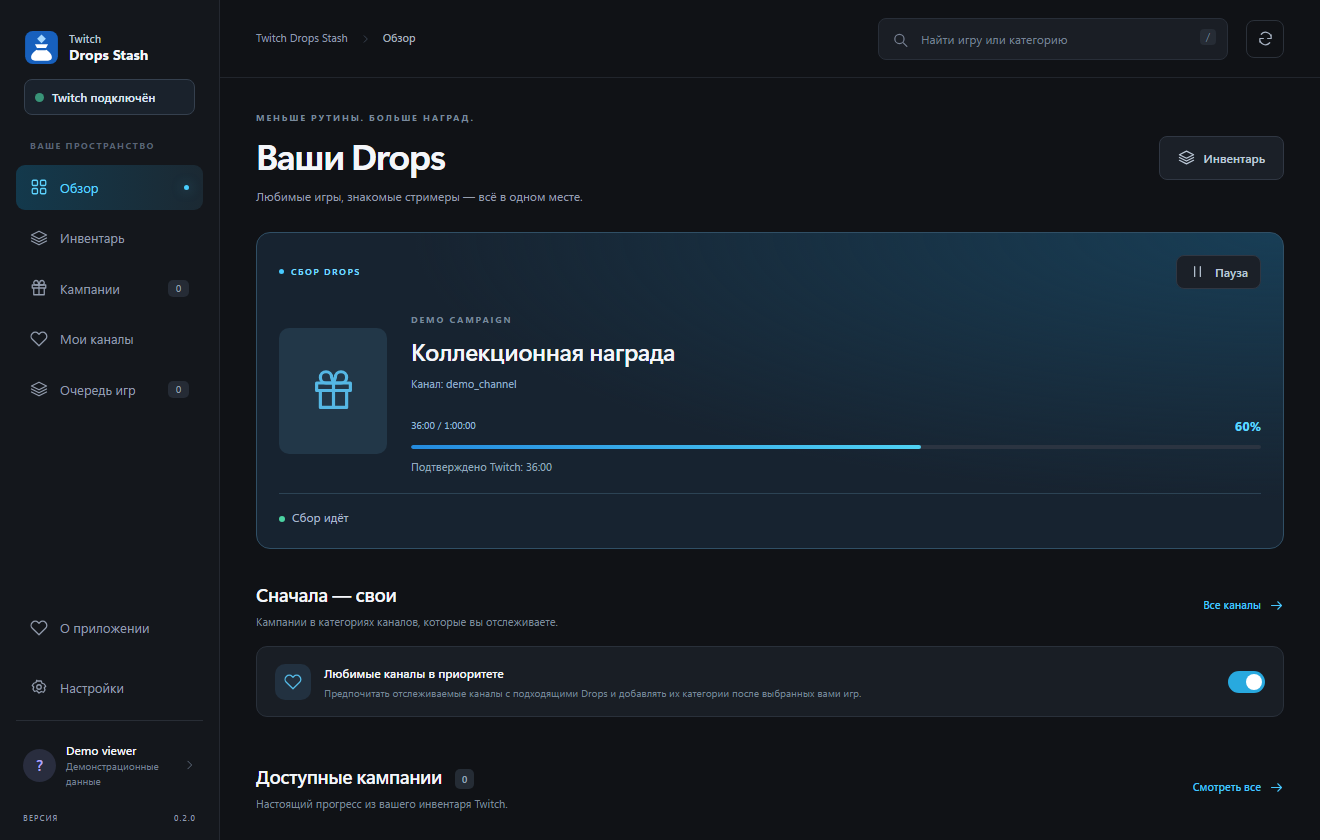
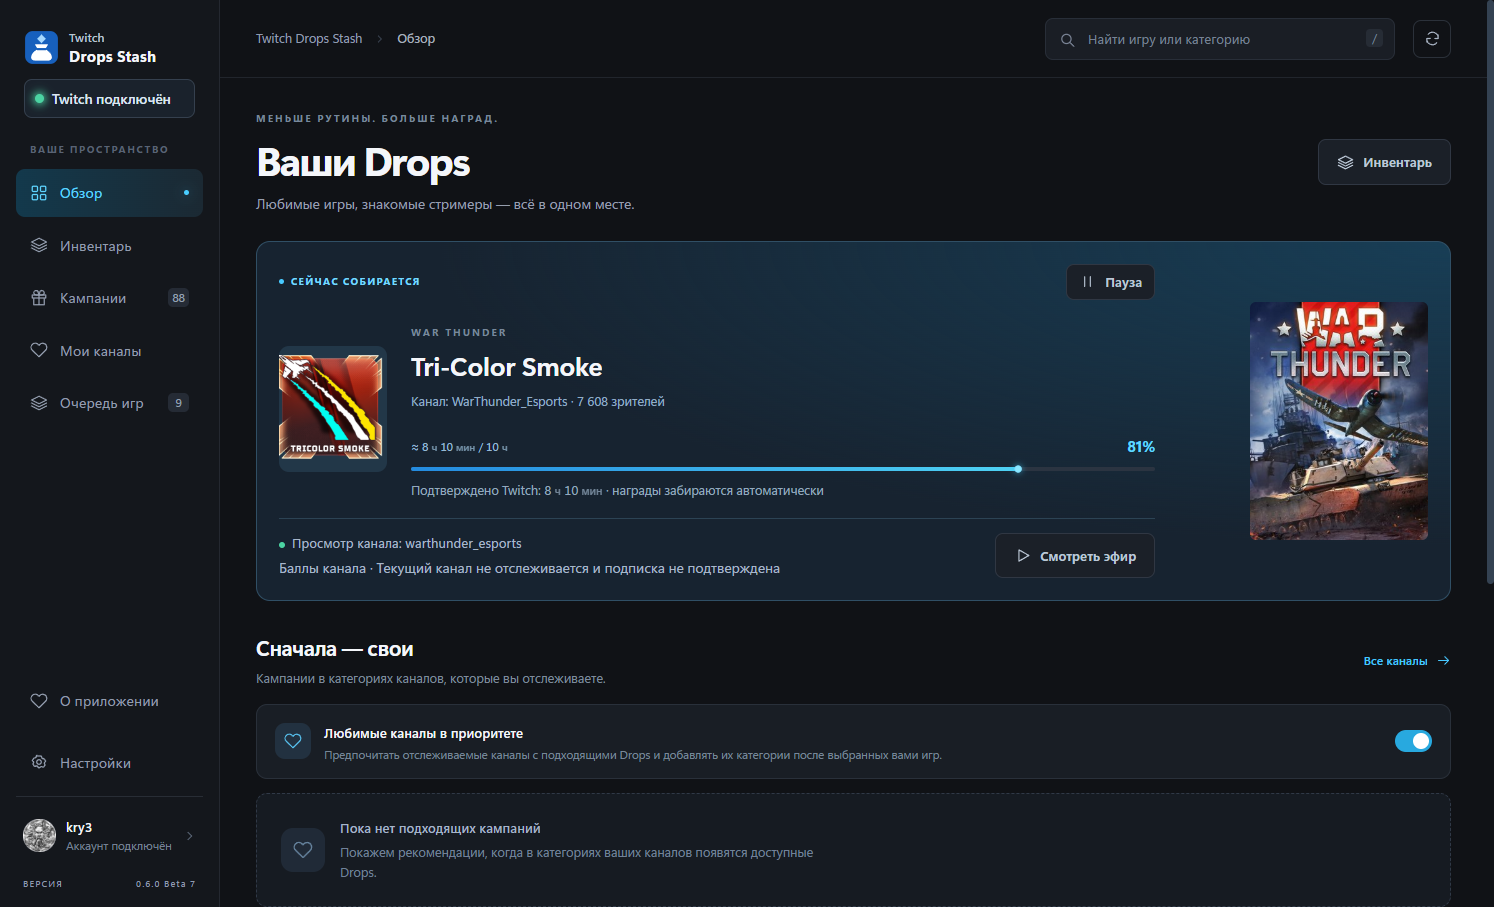
Describe 0.6.0 Beta 7 and refresh screenshots

diff --git a/README.md b/README.md
@@ -5,64 +5,109 @@
 <h1 align="center">Twitch Drops Stash</h1>
 
 <p align="center">
-  <strong>Windows x64 · 0.2.0 Beta 2 · Pre-release</strong><br>
+  <strong>Windows x64 · 0.6.0 Beta 7 · Pre-release</strong><br>
   <a href="#возможности">Русский</a> · <a href="#english">English</a>
 </p>
 
-Приложение для Windows, которое находит кампании Twitch Drops, отслеживает прогресс и автоматически забирает доступные награды. В Beta 2 увеличен текст, выровнены переключатели в настройках и обновлён диалог закрытия.
+Приложение для Windows, которое находит кампании Twitch Drops, отслеживает прогресс и автоматически забирает доступные награды. Эта бета добавляет обновления прямо из GitHub Releases: приложение само проверяет новый выпуск, сверяет контрольную сумму, заменяет себя и откатывается, если новая сборка не запустилась.
 
-**[Скачать Beta 2 для Windows x64](https://github.com/kry3/twitch-drops-stash/releases/tag/v0.2.0-beta.2)** · [Сообщить об ошибке](https://github.com/kry3/twitch-drops-stash/issues)
+**[Скачать 0.6.0 Beta 7 для Windows x64](https://github.com/kry3/twitch-drops-stash/releases/tag/v0.6.0-beta.7)** · [Что изменилось](https://github.com/kry3/twitch-drops-stash/releases/tag/v0.6.0-beta.7) · [Сообщить об ошибке](https://github.com/kry3/twitch-drops-stash/issues/new?template=bug-report.yml) · [Предложить идею](https://github.com/kry3/twitch-drops-stash/issues/new?template=feature-request.yml)
 
-## Скриншоты / Screenshots
+## Скриншоты
 
-Обзор показывает текущую награду и прогресс. В настройках можно выбрать язык, оформление и параметры работы в трее. На скриншотах — демонстрационные данные.
+Обзор показывает текущую награду, прогресс и очередь игр. В настройках — язык, оформление, вид прогресса и работа в трее. В «О приложении» — канал обновлений и проверка новой версии.
 
-The overview shows the current reward and progress. Settings include language, appearance, and system tray options. Screenshots use demo data.
+![Обзор: награда и прогресс](./stash-overview.png)
 
-![Обзор: награда и прогресс / Overview: reward and progress](stash-overview.png)
+![Настройки приложения](./stash-settings.png)
 
-![Настройки приложения / Application settings](stash-settings.png)
+![Обновления в приложении](./stash-updates.png)
 
 ## Возможности
 
-- Автоматический выбор канала и получение наград после подтверждения Twitch.
-- Очередь игр, приоритет отслеживаемых каналов и обзор доступных кампаний.
-- Инвентарь с прогрессом, просмотр трансляции, работа в трее и автозапуск.
-- Русский и английский интерфейс, светлая и тёмная темы.
+- **Сбор наград.** Приложение подбирает подходящий канал, переключается при завершении трансляции и забирает награду, когда Twitch подтверждает прогресс.
+- **Обновления из этого репозитория.** «О приложении» → «Проверить обновления»: версия, список изменений, скачивание с проверкой SHA-256, установка с перезапуском и откатом.
+- **Очередь игр и каналы.** Свой порядок игр, приоритет отслеживаемых каналов, обзор активных и предстоящих кампаний.
+- **Инвентарь.** Награды и подтверждённый Twitch прогресс, просмотр трансляции, ссылки на привязку аккаунтов.
+- **Работа в фоне.** Свернуть в трей, подсказка о прогрессе, запуск вместе с Windows.
+- **Интерфейс.** Русский и английский, светлая и тёмная темы, выбор вида прогресса.
 
 ## Как это работает
 
-После входа приложение загружает доступные кампании, выбирает подходящую трансляцию по очереди игр и отслеживает прогресс по данным Twitch. Если эфир закончится, оно подберёт другой подходящий канал. Когда Twitch подтвердит выполнение условий, приложение заберёт награду.
+После входа приложение загружает доступные кампании, выбирает подходящую трансляцию по очереди игр и отслеживает прогресс по данным Twitch. Если эфир закончится, оно подберёт другой подходящий канал. Когда Twitch подтвердит условия, приложение заберёт награду. Баллы канала при этом только читаются — приложение не выдаёт бонусы за вас.
 
 ## Первый запуск
 
-1. Распакуйте ZIP в отдельную папку с правом записи.
-2. Запустите **Twitch Drops Stash.exe**. Приложению нужен Microsoft Edge WebView2 Runtime.
+1. Скачайте [ZIP для Windows x64](https://github.com/kry3/twitch-drops-stash/releases/tag/v0.6.0-beta.7) и распакуйте в отдельную папку с правом записи.
+2. Запустите **Twitch Drops Stash.exe**. Нужен Microsoft Edge WebView2 Runtime (в Windows 11 он уже есть).
 3. Войдите в Twitch через браузер. Для кампаний с привязкой свяжите аккаунт Twitch с аккаунтом игры.
 
-**Обновление с Beta 1.** Полностью выйдите из приложения, сохраните копию старого EXE и замените его в прежней папке. Запустите приложение под той же учётной записью Windows, чтобы сохранить действующую сессию Twitch.
+Сборку проверяли на Windows 11 x64. Windows 10 x64 и Windows 11 ARM64 ещё требуют проверки. Подписи издателя пока нет, поэтому Windows может показать предупреждение при первом запуске.
+
+## Обновления
+
+Обновления приходят из выпусков этого репозитория. В «О приложении» есть канал: **Стабильные** или **Тестовые** — тестовые сборки предлагаются только на тестовом канале, выбор сохраняется.
+
+- «Проверить обновления» показывает версию, список изменений и размер.
+- «Скачать обновление» кладёт архив во временную папку приложения и сверяет SHA-256 с опубликованной суммой.
+- «Установить и перезапустить» закрывает приложение, сохраняет прежний EXE как `Twitch Drops Stash.exe.bak-update`, ставит новый и запускает его. Если новая сборка не подтвердила работу интерфейса, помощник вернёт прежний EXE.
+- Итог установки — в `updates\result.json` и `updates\updater.log` рядом с EXE.
+
+**Обновление с 0.2.0 Beta 2 вручную.** Полностью выйдите из приложения, сохраните копию старого EXE и замените его новым из ZIP. Сессия Twitch, настройки и собранные часы сохранятся.
 
 ## Тестирование и обратная связь
 
-Сборка проверялась на Windows 11 x64. Windows 10 x64 и Windows 11 ARM64 ещё требуют проверки.
+Особенно полезны отчёты о первом входе, сборе и получении наград, работе трея, автозапуска, смены языка и обновления с предыдущей версии.
 
-При ошибке укажите версию Windows, шаги воспроизведения и результат в [GitHub Issues](https://github.com/kry3/twitch-drops-stash/issues). В ZIP есть инструкция по сохранению диагностического отчёта. Проверьте его содержимое перед публикацией.
+При ошибке откройте [GitHub Issue](https://github.com/kry3/twitch-drops-stash/issues) и укажите версию Windows, шаги воспроизведения и результат. В ZIP есть инструкция по сохранению диагностического отчёта — проверьте его содержимое перед публикацией.
+
[1 lines of base64/hex data omitted]
 
 ---
 
 ## English
 
-Twitch Drops Stash is a Windows app for finding Twitch Drops campaigns, tracking progress, and automatically claiming eligible rewards. The public beta includes a game queue, followed-channel priorities, an inventory, a stream viewer, tray controls, and a Russian and English interface.
+Twitch Drops Stash is a Windows app that finds Twitch Drops campaigns, tracks progress, and automatically claims eligible rewards. This beta adds updates straight from GitHub Releases: the app checks for a new release, verifies its checksum, replaces itself, and rolls back if the new build does not start.
 
-**[Download Beta 2 for Windows x64](https://github.com/kry3/twitch-drops-stash/releases/tag/v0.2.0-beta.2)** · [Report a bug](https://github.com/kry3/twitch-drops-stash/issues)
+**[Download 0.6.0 Beta 7 for Windows x64](https://github.com/kry3/twitch-drops-stash/releases/tag/v0.6.0-beta.7)** · [Report a bug](https://github.com/kry3/twitch-drops-stash/issues/new?template=bug-report.yml) · [Suggest an idea](https://github.com/kry3/twitch-drops-stash/issues/new?template=feature-request.yml)
 
-Extract the ZIP to a writable folder, run **Twitch Drops Stash.exe**, and sign in to Twitch in your browser. Microsoft Edge WebView2 Runtime is required. Windows 11 x64 has been tested. Windows 10 x64 and Windows 11 ARM64 still need testing.
+The overview shows the current reward, progress, and the game queue. Settings cover language, appearance, progress display, and tray behaviour. About holds the update channel and the version check.
 
-Beta 2 improves text readability, aligns Settings switches, and refreshes the close dialog.
+### Features
 
-**Updating from Beta 1.** Exit the app completely, back up the old EXE, and replace it in the original folder. Run the app as the same Windows user to keep your valid Twitch session.
+- **Claiming.** The app picks an eligible channel, switches when the stream ends, and claims the reward once Twitch confirms progress.
+- **Updates from this repository.** About → Check for updates: version, change list, a checksum-verified download, install with restart, and rollback.
+- **Game queue and channels.** Your own game order, followed-channel priorities, and an overview of active and upcoming campaigns.
+- **Inventory.** Rewards and confirmed Twitch progress, the stream viewer, and account-linking links.
+- **Background work.** Minimize to tray, progress tooltip, and start with Windows.
+- **Interface.** Russian and English, light and dark themes, and a choice of progress display.
 
-For bug reports, include your Windows version, the steps to reproduce the issue, and what happened. The ZIP explains how to save a diagnostic report. Review it before sharing.
+### Getting started
+
+1. Download the [Windows x64 ZIP](https://github.com/kry3/twitch-drops-stash/releases/tag/v0.6.0-beta.7) and extract it to a writable folder.
+2. Run **Twitch Drops Stash.exe**. Microsoft Edge WebView2 Runtime is required (Windows 11 ships it).
+3. Sign in to Twitch in your browser. Link your Twitch and game accounts if the campaign requires it.
+
+Windows 11 x64 has been tested. Windows 10 x64 and Windows 11 ARM64 still need testing. There is no publisher signature yet, so Windows may warn on first start.
+
+### Updates
+
+Updates come from this repository's releases. About has a channel: **Stable** or **Test**; test builds are offered only on the test channel, and the choice is remembered.
+
+- Check for updates shows the version, the change list, and the size.
+- Download update puts the archive in the app's temporary folder and compares SHA-256 with the published sum.
+- Install and restart closes the app, keeps the previous EXE as `Twitch Drops Stash.exe.bak-update`, installs the new one, and starts it. If the new build does not confirm its interface, the helper restores the previous EXE.
+- The outcome is written to `updates\result.json` and `updates\updater.log` next to the EXE.
+
+**Updating from 0.2.0 Beta 2 by hand.** Exit the app completely, back up the old EXE, and replace it with the new one from the ZIP. Your Twitch session, settings, and watch time are preserved.
+
+### Testing and feedback
+
+Reports about first sign-in, Drops progress and claiming, the tray, autostart, language switching, and updating from a previous version are especially useful.
+
+For a bug, open a [GitHub issue](https://github.com/kry3/twitch-drops-stash/issues) with your Windows version, the steps to reproduce, and what happened. The ZIP explains how to save a diagnostic report — review it before sharing.
+
[1 lines of base64/hex data omitted]
 
 ---
 
